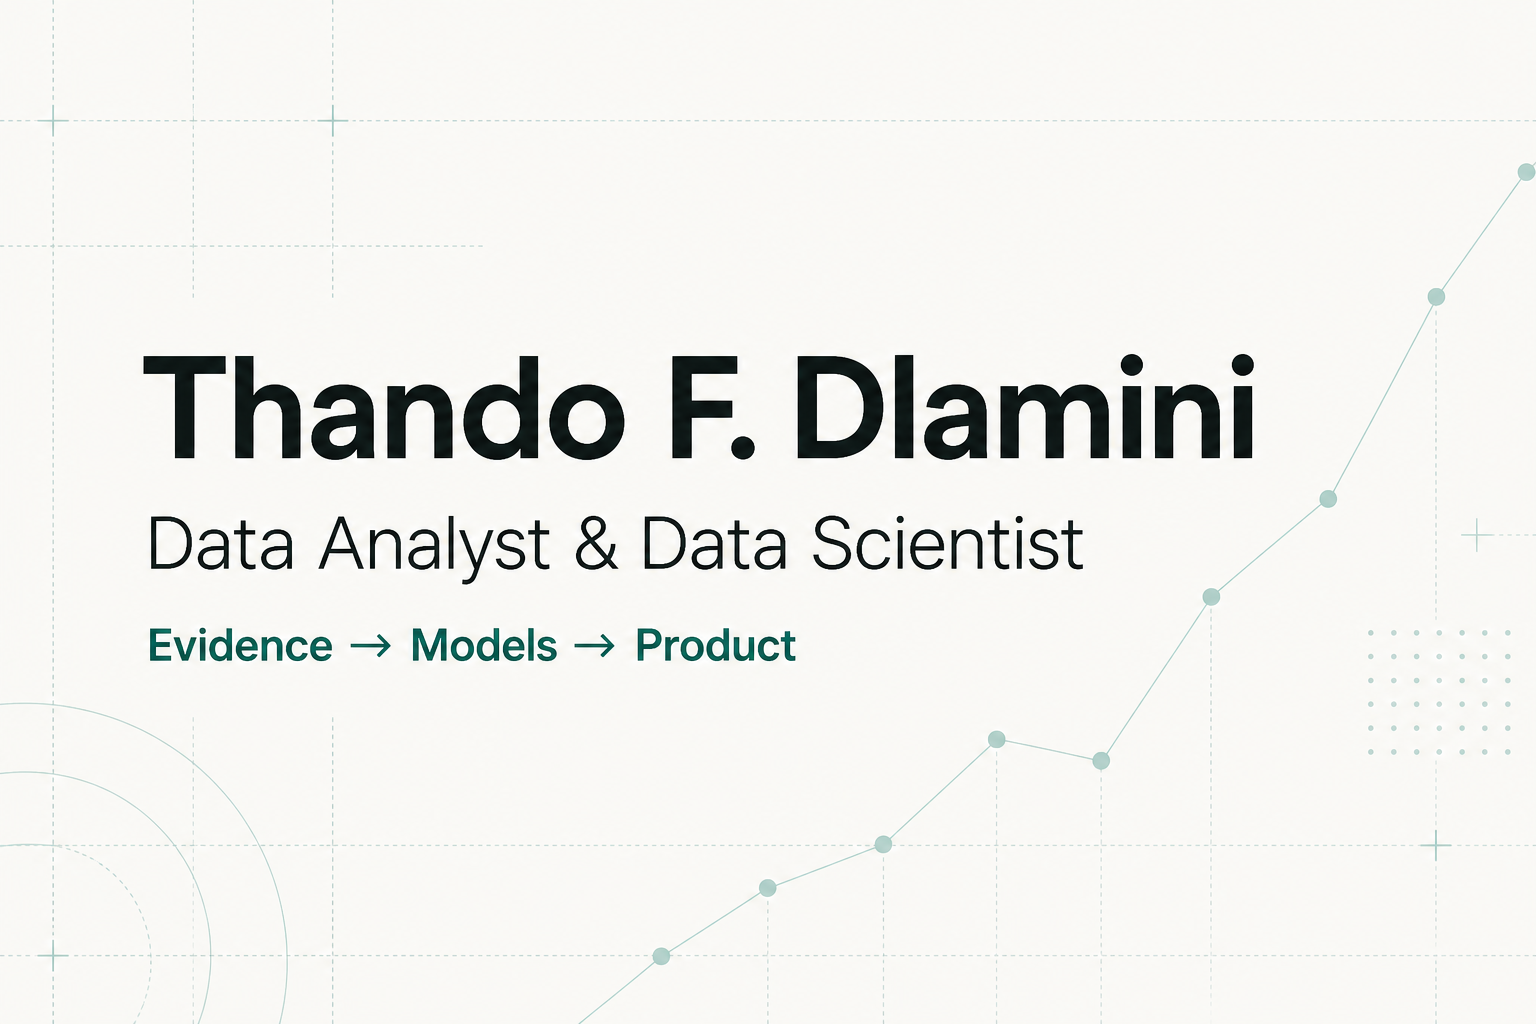
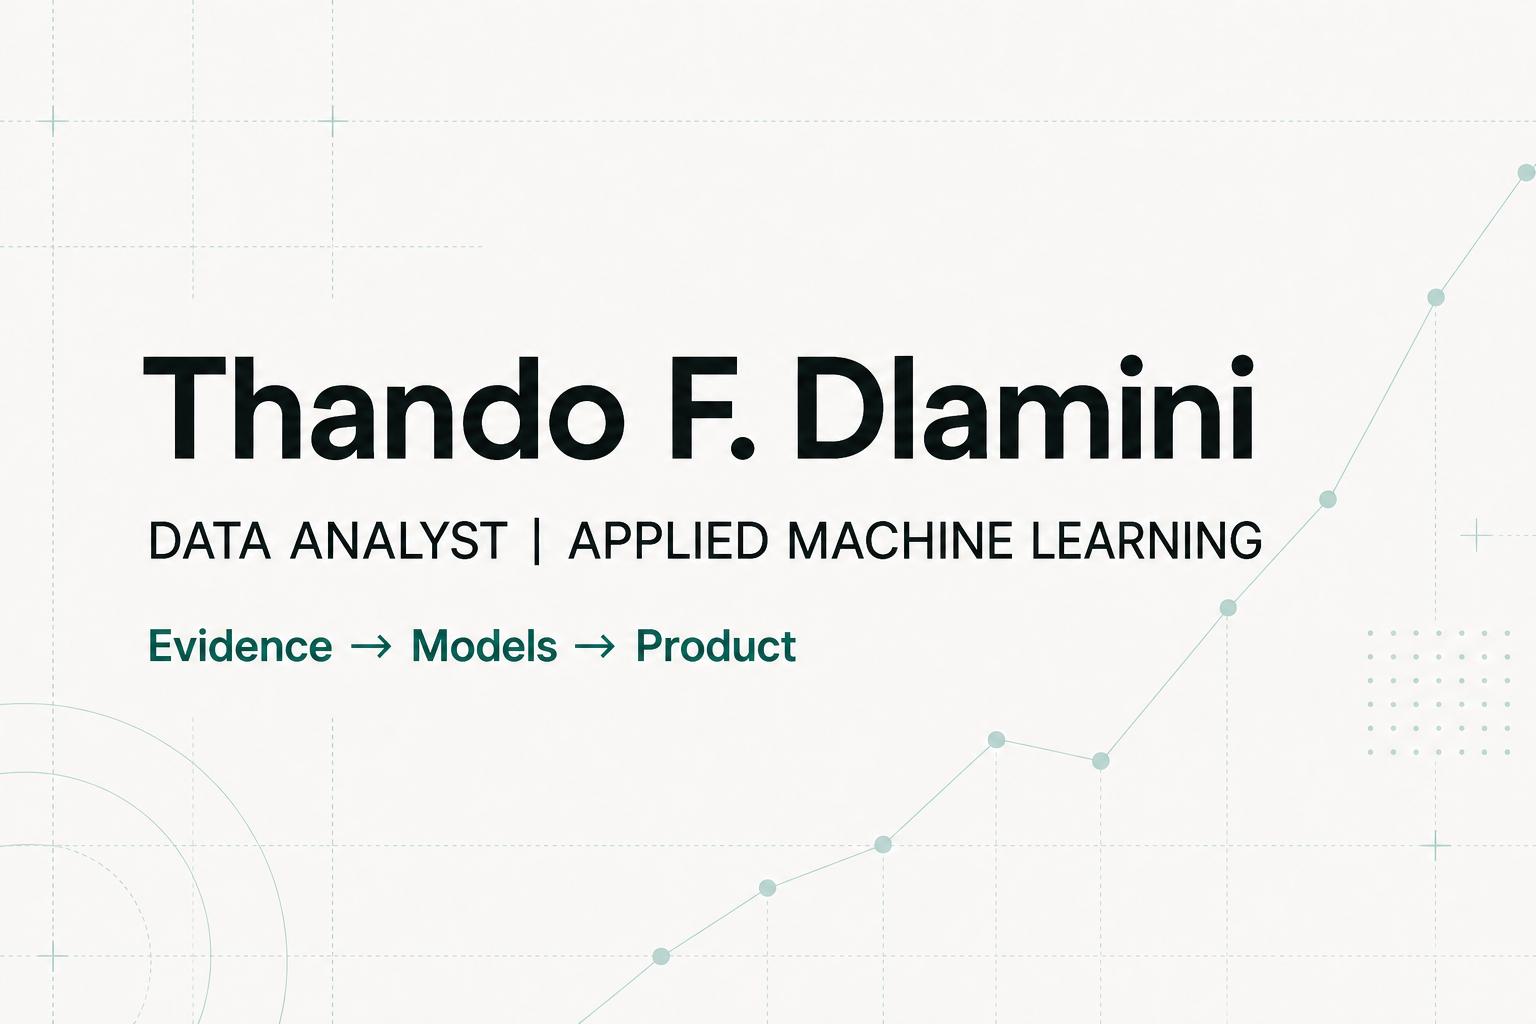
Update portfolio professional title

diff --git a/index.html b/index.html
@@ -12,7 +12,10 @@
     <meta property="og:type" content="website" />
     <meta property="og:site_name" content="Thando F. Dlamini — Data Portfolio" />
     <meta property="og:locale" content="en_US" />
-    <meta property="og:title" content="Thando F. Dlamini | Data Analyst &amp; Data Scientist" />
+    <meta
+      property="og:title"
+      content="Thando F. Dlamini | Data Analyst | Applied Machine Learning"
+    />
     <meta
       property="og:description"
       content="Data science portfolio of Thando F. Dlamini, featuring machine learning, statistical analysis, explainable AI and end-to-end data applications."
@@ -23,10 +26,13 @@
     <meta property="og:image:height" content="1024" />
     <meta
       property="og:image:alt"
-      content="Thando F. Dlamini — Data Analyst and Data Scientist — Evidence to Models to Product"
+      content="Thando F. Dlamini — Data Analyst | Applied Machine Learning"
     />
     <meta name="twitter:card" content="summary_large_image" />
-    <meta name="twitter:title" content="Thando F. Dlamini | Data Analyst &amp; Data Scientist" />
+    <meta
+      name="twitter:title"
+      content="Thando F. Dlamini | Data Analyst | Applied Machine Learning"
+    />
     <meta
       name="twitter:description"
       content="Data science portfolio of Thando F. Dlamini, featuring machine learning, statistical analysis, explainable AI and end-to-end data applications."
@@ -34,17 +40,17 @@
     <meta name="twitter:image" content="https://thandofana.github.io/og.png" />
     <meta
       name="twitter:image:alt"
-      content="Thando F. Dlamini — Data Analyst and Data Scientist — Evidence to Models to Product"
+      content="Thando F. Dlamini — Data Analyst | Applied Machine Learning"
     />
     <link rel="canonical" href="https://thandofana.github.io/" />
     <link rel="icon" type="image/svg+xml" href="/favicon.svg" />
-    <title>Thando F. Dlamini | Data Analyst &amp; Data Scientist</title>
+    <title>Thando F. Dlamini | Data Analyst | Applied Machine Learning</title>
     <script type="application/ld+json">
       {
         "@context": "https://schema.org",
         "@type": "Person",
         "name": "Thando F. Dlamini",
-        "jobTitle": "Data Analyst & Data Scientist",
+        "jobTitle": "Data Analyst | Applied Machine Learning",
         "homeLocation": {
           "@type": "Country",
           "name": "Eswatini"

diff --git a/src/data/profile.js b/src/data/profile.js
@@ -1,6 +1,6 @@
 const profile = {
   name: 'Thando F. Dlamini',
-  professionalTitle: 'Junior Data Scientist',
+  professionalTitle: 'DATA ANALYST | APPLIED MACHINE LEARNING',
   location: 'Eswatini',
   email: 'dlaminithandofana@gmail.com',
   phones: [
